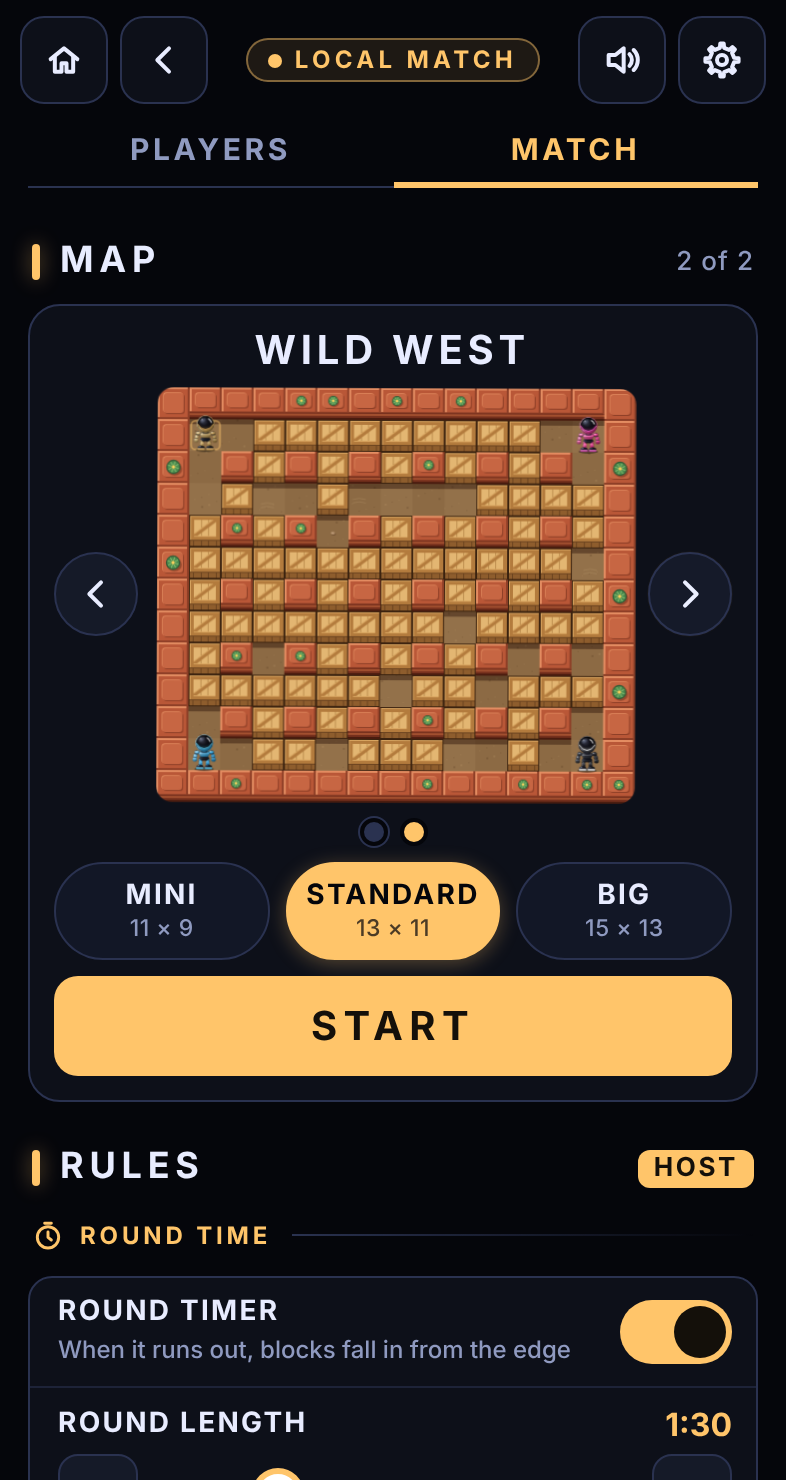
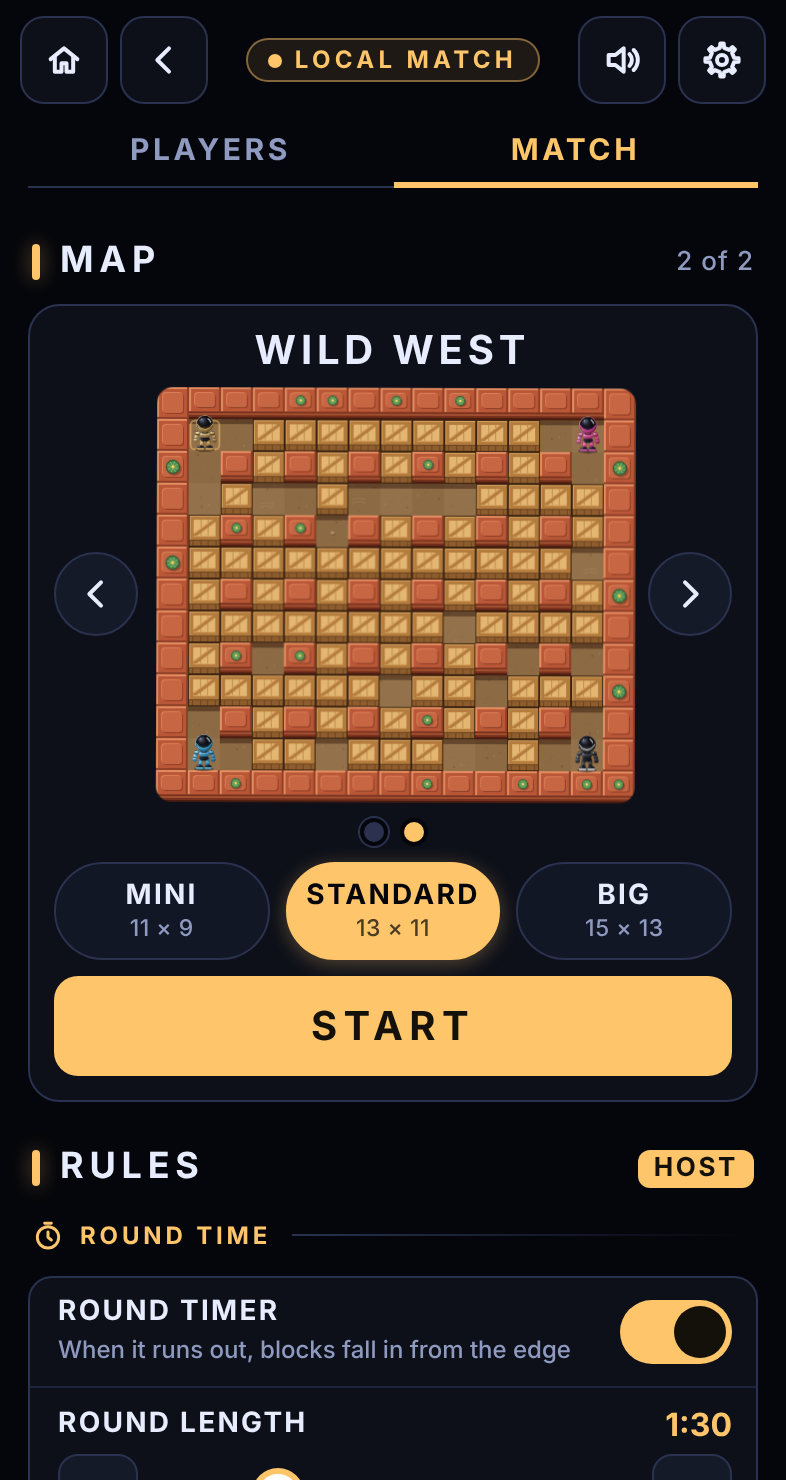
The falling blocks always leave a clean rectangle: 9 by 7 on Standard
The owner's ask, 20 November 2026. The area left open in the middle is now
always a rectangle whose edges run along open rows and columns, never through
pillars (keptSize in sim.ts). On Standard (13 by 11) the 7 by 5 had pillars on
its edges; it is now 9 by 7, 51 tiles to stand on, and only two rings fall.
Mini and Big keep their 7 by 5, already clean; arenas grown for seven or eight
players get whichever of the two is clean. The Closing in hint says the size
for the arena pictured. Online version 7.

CPU runs redone: blasted itself stays at zero. The bigger square leaves many
more CPU-only rounds still going 2 minutes after the blocks stop (four
Beginners 54 of 60, four Hards 21); written down in docs/CPU-PLAYERS.md.

Claude-Session: https://claude.ai/code/session_011ftAyX6mTgujq1JC9DxE3X

diff --git a/tests/rules.test.ts b/tests/rules.test.ts
@@ -31,6 +31,7 @@ import {
   KEEP_OPEN_W,
   KEEP_OPEN_H,
   keptOpen,
+  keptSize,
   TICK_HZ,
   ITEM_CHANCE,
   ITEM_SHARE,
@@ -943,17 +944,19 @@ for (let seed = 1; seed <= 40; seed++) {
     assert.deepEqual(xy[13], [13, 2], 'turns down the right side');
     assert.deepEqual(xy[43], [1, 2], 'the first ring ends just under where it began');
     assert.deepEqual(xy[44], [3, 2], 'the second ring starts one in, past the pillar at 2,2');
-    // three whole rings (44, 18 and 28 blocks), and that is all: they leave the 7 by 5 that stays open (the
-    // owner's ask, 18 November 2026; four more blocks used to close its sides to a 5 by 5)
-    assert.equal(xy.length, 90);
-    assert.deepEqual(xy[89], [3, 4], 'the last block closes the third ring, just outside the 7 by 5');
+    // two whole rings (44 and 18 blocks), and that is all: on Standard they leave the 9 by 7 that stays open,
+    // a clean rectangle (the owner's ask, 20 November 2026; a third ring of 28 used to close it to a 7 by 5
+    // with pillars at its corners, and before that four more blocks to a 5 by 5)
+    assert.equal(xy.length, 62);
+    assert.deepEqual(xy[61], [2, 3], 'the last block closes the second ring, just outside the 9 by 7');
     assert.equal(new Set(w.shrinkOrder).size, w.shrinkOrder.length, 'each once');
-    // the area left open: 7 by 5 in the middle, columns 4 to 10 and rows 4 to 8
+    // the area left open: 9 by 7 in the middle, columns 3 to 11 and rows 3 to 9, its edges open rows and columns
     assert.equal(KEEP_OPEN_W, 7);
     assert.equal(KEEP_OPEN_H, 5);
+    assert.deepEqual(keptSize(w.w, w.h), [9, 7]);
     for (let y = 1; y < w.h - 1; y++) {
       for (let x = 1; x < w.w - 1; x++) {
-        const inside = x >= 4 && x <= 10 && y >= 4 && y <= 8;
+        const inside = x >= 3 && x <= 11 && y >= 3 && y <= 9;
         assert.equal(keptOpen(w.w, w.h, y * w.w + x), inside);
         if (inside) assert.ok(!w.shrinkOrder.includes(y * w.w + x), `no block ever falls on ${x},${y}`);
       }
@@ -969,7 +972,7 @@ for (let seed = 1; seed <= 40; seed++) {
     assert.equal(blockLandTick(w, n - 1), ROUND_TICKS + SHRINK_TICKS, 'the last block lands 50 seconds after 0:00');
     for (let k = 1; k < n; k++) {
       const gap = blockLandTick(w, k) - blockLandTick(w, k - 1);
-      const even = (SHRINK_TICKS - FALL_TICKS) / (n - 1); // (33.3 ticks with the 90 blocks of a 7 by 5; 31.6 with 94 for a 5 by 5)
+      const even = (SHRINK_TICKS - FALL_TICKS) / (n - 1); // (48.6 ticks with the 62 blocks round a 9 by 7; 33.3 with 90 for a 7 by 5)
       assert.ok(gap === Math.floor(even) || gap === Math.ceil(even), `block ${k} lands about half a second after the one before`);
     }
     w.players.forEach((p) => { p.x = 7; p.y = 5; }); // out of the way for now
@@ -988,7 +991,7 @@ for (let seed = 1; seed <= 40; seed++) {
     assert.ok(w.events.some((e) => e.type === 'block' && e.cx === 1 && e.cy === 1), 'and says so');
     assert.equal(hard(w), before + 1, 'one at a time');
   }
-  // 50 seconds after 0:00 everything is solid except the 7 by 5 in the middle, which is untouched; then the blocks stop
+  // 50 seconds after 0:00 everything is solid except the 9 by 7 in the middle, which is untouched; then the blocks stop
   {
     const w = timed(undefined, 0.78, 1);
     const p = w.players[0];
@@ -1002,7 +1005,7 @@ for (let seed = 1; seed <= 40; seed++) {
       else assert.equal(w.tiles[i], HARD, 'outside it everything is solid');
     }
     for (const [i, kind] of hiddenBefore) assert.equal(w.hidden.get(i), keptOpen(w.w, w.h, i) ? kind : undefined, 'power-ups under bricks in the square are still there');
-    assert.equal(w.tiles.filter((t, i) => keptOpen(w.w, w.h, i) && t !== HARD).length, 23, '23 tiles to fight in: 35 less 12 pillars');
+    assert.equal(w.tiles.filter((t, i) => keptOpen(w.w, w.h, i) && t !== HARD).length, 51, '51 tiles to fight in: 63 less 12 pillars');
     assert.equal(w.falling.length, 0);
     assert.equal(ticksLeft(w), 0);
     assert.ok(p.alive, 'a robot in the square is still in');
@@ -1053,8 +1056,9 @@ for (let seed = 1; seed <= 40; seed++) {
   // who wins when blocks decide it
   {
     // one player further along the falling order than the other: it outlasts the other and wins,
-    // even though a block gets it too before the result would have been declared
-    const w = timed();
+    // even though a block gets it too before the result would have been declared (Fast closing in, 32 s: at
+    // Normal the blocks round a 9 by 7 land 0.8 s apart, longer than the wait for a double knockout)
+    const w = createWorld({ seed: 7, players: [{ colorId: '0' }, { colorId: '1' }], softDensity: 0, shrinkTicks: 32 * TICK_HZ });
     const [a, b] = w.players;
     a.x = 1; a.y = 1; // first tile to go
     b.x = 2; b.y = 1; // second
@@ -1168,6 +1172,20 @@ for (let seed = 1; seed <= 40; seed++) {
     assert.deepEqual(big.players.map((p) => [p.x, p.y]), [[1, 1], [cols, rows], [cols, 1], [1, rows]]);
     assert.ok(big.shrinkOrder.length > 0);
     assert.ok(big.shrinkOrder.every((i) => !keptOpen(big.w, big.h, i)));
+  }
+  // every size, with four players and grown for eight, ends on a clean rectangle: its edges are open rows and
+  // columns, never pillars (the owner's ask, 20 November 2026); 7 by 5 or 9 by 7
+  for (const [cols, rows] of [[11, 9], [13, 11], [15, 13], [17, 15]]) {
+    const w = createWorld({ seed: 5, players: [{ colorId: 'a' }, { colorId: 'b' }], cols, rows });
+    const [kw, kh] = keptSize(w.w, w.h);
+    assert.ok((kw === 7 && kh === 5) || (kw === 9 && kh === 7), `${cols} by ${rows}: ${kw} by ${kh}`);
+    const x0 = (w.w - 1) / 2 - (kw - 1) / 2, y0 = (w.h - 1) / 2 - (kh - 1) / 2;
+    for (let k = 0; k < kw; k++) {
+      for (const y of [y0, y0 + kh - 1]) assert.notEqual(w.tiles[y * w.w + x0 + k], HARD, `${cols} by ${rows}: no pillar on its top or bottom edge`);
+    }
+    for (let k = 0; k < kh; k++) {
+      for (const x of [x0, x0 + kw - 1]) assert.notEqual(w.tiles[(y0 + k) * w.w + x], HARD, `${cols} by ${rows}: no pillar on its sides`);
+    }
   }
 }
 

diff --git a/src/sim.ts b/src/sim.ts
@@ -428,9 +428,11 @@ export const FALL_TICKS = 38; // a falling block is in the air, over its shadow,
 export const START_FIRE = 1; // a blast reaches one tile each way until a flame power-up is picked up (it was 2)
 export const MAX_FIRE = 8;
 /**
- * The falling blocks leave an area this many tiles across and this many down open in the middle of the arena,
- * for whoever is left to fight it out in: 7 by 5 (the owner's ask, 18 November 2026; it was a 5 by 5 square,
- * which the last four blocks used to make out of the 7 by 5 that the rings leave on the Standard arena).
+ * The falling blocks leave a rectangle open in the middle of the arena, for whoever is left to fight it out in:
+ * at least this many tiles across and down (7 by 5: the owner's ask, 18 November 2026; it was a 5 by 5 square).
+ * Its edges always run along an open row or column, never through the pillars, so what is left is a clean
+ * rectangle with the pillars inside it (the owner's ask, 20 November 2026): 7 by 5 where that already holds
+ * (Mini, Big), 9 by 7 where it does not (Standard, and Big grown for seven or eight players). See `keptSize`.
  */
 export const KEEP_OPEN_W = 7;
 export const KEEP_OPEN_H = 5;
@@ -728,11 +730,24 @@ function spiral(w: number, h: number): number[] {
   return out;
 }
 
-/** Is this tile in the area in the middle of the arena that the falling blocks leave open (7 by 5)? */
+/**
+ * How many tiles across and down the falling blocks leave open in the middle of an arena `w` by `h` (outer wall
+ * included): the smallest at least KEEP_OPEN_W by KEEP_OPEN_H whose edges are open rows and columns (odd ones;
+ * the pillars stand on even ones), so the end is always a clean rectangle. Arenas are always two wider than high,
+ * so it is 7 by 5 or 9 by 7.
+ */
+export function keptSize(w: number, h: number): [number, number] {
+  const cx = (w - 1) / 2;
+  const cy = (h - 1) / 2;
+  return [cx % 2 === 0 ? KEEP_OPEN_W : KEEP_OPEN_W + 2, cy % 2 === 1 ? KEEP_OPEN_H : KEEP_OPEN_H + 2];
+}
+
+/** Is this tile in the rectangle in the middle of the arena that the falling blocks leave open (`keptSize`)? */
 export function keptOpen(w: number, h: number, i: number): boolean {
   const x = i % w;
   const y = Math.floor(i / w);
-  return Math.abs(x - (w - 1) / 2) <= (KEEP_OPEN_W - 1) / 2 && Math.abs(y - (h - 1) / 2) <= (KEEP_OPEN_H - 1) / 2;
+  const [kw, kh] = keptSize(w, h);
+  return Math.abs(x - (w - 1) / 2) <= (kw - 1) / 2 && Math.abs(y - (h - 1) / 2) <= (kh - 1) / 2;
 }
 
 /**

diff --git a/tests/bot.test.ts b/tests/bot.test.ts
@@ -238,9 +238,10 @@ for (const level of ['normal', 'hard'] as BotLevel[]) {
   const w = createWorld({ seed: 7, players: [{ colorId: 'gold' }, { colorId: 'blue' }], softDensity: 0 });
   const at = (x: number, y: number): number => y * w.w + x;
   assert.equal(blockLandsIn(w, at(1, 1)), blockLandTick(w, 0), 'the first block is due on the top-left corner');
-  assert.equal(blockLandsIn(w, at(3, 4)), ROUND_TICKS + SHRINK_TICKS, 'the last just outside the 7 by 5 that stays open, 50 seconds after the timer reaches 0');
-  assert.equal(blockLandsIn(w, at(7, 6)), Infinity, 'none in the 7 by 5');
-  assert.equal(blockLandsIn(w, at(4, 5)), Infinity, 'its side columns included (they used to close it to 5 by 5)');
+  assert.equal(blockLandsIn(w, at(2, 3)), ROUND_TICKS + SHRINK_TICKS, 'the last just outside the 9 by 7 that stays open on Standard, 50 seconds after the timer reaches 0');
+  assert.equal(blockLandsIn(w, at(7, 6)), Infinity, 'none in the 9 by 7');
+  assert.equal(blockLandsIn(w, at(3, 3)), Infinity, 'its corners included (the third ring used to close it to a 7 by 5)');
+  assert.equal(blockLandsIn(w, at(4, 5)), Infinity);
   assert.equal(blockLandsIn(w, at(5, 4)), Infinity);
   assert.equal(blockLandsIn(w, at(2, 2)), Infinity, 'none on a pillar');
   // at the start nothing is in sight; just before the timer reaches 0 the first tiles are, for a level that looks ahead
@@ -268,7 +269,7 @@ for (const level of BOT_LEVELS) {
     // (Beginner only steps aside from the block that is falling, and looks under a second ahead when it
     // picks where to stand clear of its own bomb, so it can back into a pocket the ring then closes: that is
     // part of being easy. With a 2-minute timer that happened in this open arena; with the 7 by 5 kept open
-    // (18 November 2026) it happens among the bricks: it runs from its own bomb onto the third ring as it
+    // (18 November 2026) it happened among the bricks: it runs from its own bomb onto the third ring as it
     // closes. So Beginner may be caught by a block here, but never by its own blast. How often: the `alone`
     // run of experiments/cpu-matches.ts.)
     if (level === 'beginner' && !p.alive) {

diff --git a/src/net.ts b/src/net.ts
@@ -22,7 +22,7 @@ import type { BotLevel } from './bot';
  * The version of these messages. A page says it in `hello`; the server turns away a page with another (one
  * left open from before an update), telling it to reload. Raise it whenever a message changes its meaning.
  */
-export const PROTOCOL = 6; // 3: the laptop's plane (steering in the inputs, planes and falling bombs in the world); 4: the plane slower, turning less, flying longer; 5: Power-ups (itemShare in the setup), and a custom mix is only which kinds; 6: Brick density (brickShare) and a switch for each kind (itemOn)
+export const PROTOCOL = 7; // 3: the laptop's plane (steering in the inputs, planes and falling bombs in the world); 4: the plane slower, turning less, flying longer; 5: Power-ups (itemShare in the setup), and a custom mix is only which kinds; 6: Brick density (brickShare) and a switch for each kind (itemOn); 7: the area the falling blocks leave is a clean rectangle on every size (9 by 7 on Standard)
 
 /** Room codes: four letters, without the ones easily mixed up (I, O) or that spell words easily (vowels). */
 export const CODE_LETTERS = 'BCDFGHJKLMNPQRSTVWXZ';

diff --git a/src/lobby.ts b/src/lobby.ts
@@ -22,7 +22,7 @@
  */
 import { BOT_LEVELS, LEVELS } from './bot';
 import { COLORS, botName, colorById, drawItemTile, drawRobot, drawStatic, drawDynamic, setMap, ROBOT } from './render';
-import { type World, createWorld, MAX_BOMBS, MAX_FIRE, MAX_LIVES, MAX_SPEED_ITEMS, START_FIRE } from './sim';
+import { type World, createWorld, keptSize, MAX_BOMBS, MAX_FIRE, MAX_LIVES, MAX_SPEED_ITEMS, START_FIRE } from './sim';
 import {
   CpuSlot,
   Guest,
@@ -1498,7 +1498,11 @@ export function createLobby(host: LobbyHost): {
           }),
           slider({
             label: 'Closing in',
-            hint: () => `The blocks take ${CLOSE_IN[s().closeIn].secs} seconds to fall. A 7 by 5 area in the middle stays open.`,
+            hint: () => {
+              const pw = previewWorld();
+              const [kw, kh] = keptSize(pw.w, pw.h); // (9 by 7 on Standard, 7 by 5 on Mini and Big)
+              return `The blocks take ${CLOSE_IN[s().closeIn].secs} seconds to fall. A ${kw} by ${kh} area in the middle stays open.`;
+            },
             min: 0,
             max: CLOSE_IN.length - 1,
             normal: () => usual().closeIn,

diff --git a/CLAUDE.md b/CLAUDE.md
@@ -67,8 +67,8 @@ Do not undo these unless asked. The reasons are in `docs/ROADMAP.md` and `docs/C
 - Your colour is yours for the whole match. A round's players, colours and CPU levels are set in `newWorld` in `main.ts`, from the lobby's setup, and nowhere else. Colours can only be changed in the lobby, between matches, and always stay different. You pick a colour (arrows, a dot, a swipe; it shows on your robot) and press **Ready** (it was OK; renamed by the owner) to take it, which pops up a P1 tag under its dot (P2 to P8 sit under the CPU players' colours) and puts a ✓ Ready check on your player card. CPU players' cards always show ✓ Ready. Picking another colour takes Ready away until it is pressed again. Ready resets on each fresh visit to the lobby (from the title or a match), not on coming back from Settings. You can take a CPU player's colour: that CPU player gets the one you had. A CPU player can only be given a free colour on its own panel. Online, each player will press Ready on their own colour and can change and press it again until the start (the owner's plan). Menus to come that choose a colour must follow the same rule.
 - Each head on the scoreboard has its player's name under it (the owner's ask, November 2026): a typed name or the robot's, yours in your colour, cut short with … to fit. Upright with four players the names sit in the free line under the top bar; upright with more, heads and names share that line; sideways each row is 58 px. Lives dots sit under the number of wins, not the head.
 - The menu button (`#menuBtn`) is three bars, not the word Menu, so the scoreboard fits beside the timer.
-- The timer counts down 1 minute 30 unless the lobby sets another length (`ROUND_TICKS`; it was 2 minutes at first; `roundTicks` in `createWorld`, 0 = no timer, which is what most tests use). When it reaches 0:00 the blocks start to fall, and take 50 seconds (`SHRINK_TICKS`). They fall one at a time in `world.shrinkOrder`: round the edge clockwise from the top-left corner, then ring after ring inward until only the 7 by 5 in the middle is left (on Standard, two more rings; the two columns beside the middle used to fall last, when it was a 5 by 5). (At first they fell during the last minute of the timer; changed in play-testing.) Each is in the air 0.63 s (`FALL_TICKS` 38) over a marked tile (the blocks were made 20% faster in play-testing: a minute and 0.75 s at first; keep the two in step), then turns it solid for good, knocks out a robot under it (a shield does not help), and removes a bomb, power-up, brick or blast there (`fallBlocks` in `sim.ts`).
-- A 7 by 5 area in the middle (7 across, 5 down) is never touched (`KEEP_OPEN_W`, `KEEP_OPEN_H`, `keptOpen`; the owner's ask, 18 November 2026: it was a 5 by 5 square, `KEEP_OPEN`). On Standard that is exactly what three rings leave, so the last block closes the third ring; on Mini and Big its edges fall between the pillars (29 tiles to stand on, against 23 on Standard). The CPU players' "square" (`squareBold`, `inSquare`) is this area. When the blocks stop the round goes on there until someone wins; it has no time limit. The first version closed the whole arena and half the rounds were draws on the last tile: do not go back to that.
+- The timer counts down 1 minute 30 unless the lobby sets another length (`ROUND_TICKS`; it was 2 minutes at first; `roundTicks` in `createWorld`, 0 = no timer, which is what most tests use). When it reaches 0:00 the blocks start to fall, and take 50 seconds (`SHRINK_TICKS`). They fall one at a time in `world.shrinkOrder`: round the edge clockwise from the top-left corner, then ring after ring inward until only the rectangle in the middle is left (below; on Standard, one more ring after the edge). (At first they fell during the last minute of the timer; changed in play-testing.) Each is in the air 0.63 s (`FALL_TICKS` 38) over a marked tile (the blocks were made 20% faster in play-testing: a minute and 0.75 s at first; keep the two in step), then turns it solid for good, knocks out a robot under it (a shield does not help), and removes a bomb, power-up, brick or blast there (`fallBlocks` in `sim.ts`).
+- A clean rectangle in the middle is never touched (`KEEP_OPEN_W`, `KEEP_OPEN_H`, `keptSize`, `keptOpen`): at least 7 across by 5 down, its edges always open rows and columns, never pillars (the owner's ask, 20 November 2026: on Standard the 7 by 5 had pillars on its edges and did not end as a rectangle), so 9 by 7 on Standard (51 tiles to stand on; two rings fall, 62 blocks), 7 by 5 on Mini and Big (29 tiles); grown for seven or eight players, 7 by 5 on Mini and Standard, 9 by 7 on Big. It was a 5 by 5 square (`KEEP_OPEN`) until 18 November 2026, then 7 by 5 everywhere. The Closing in hint says the size for the arena pictured. The CPU players' "square" (`squareBold`, `inSquare`) is this area. When the blocks stop the round goes on there until someone wins; it has no time limit. The first version closed the whole arena and half the rounds were draws on the last tile: do not go back to that. Online `PROTOCOL` 7.
 - The last robot standing wins even if a block gets it a moment later; robots under the same block draw.
 - A blast starts 1 tile long each way (`START_FIRE`); each flame power-up adds a tile, up to 8. It started at 2.
 - The timer is centred in the top bar (`#timer`, `drawTimer` in `main.ts`): white, amber for the last 30 seconds, red for the last ten and after. Sideways it sits over the side column. The strip of collected power-ups was removed: do not bring it back unless asked. The pad caption is centred.
@@ -85,7 +85,7 @@ Do not undo these unless asked. The reasons are in `docs/ROADMAP.md` and `docs/C
 - Swipe directions are read around four aims that all lean the same few degrees, set by **Movement sensitivity** in Settings › Controls (the owner's design, November 2026): a slider from **0% to 25%** in steps of 1%, its value in small type over its circle (the owner's ask, 18 November 2026: more options, as a percentage; it was Low 2°, Medium 5°, High 8°), each percent leaning the aims 0.45° (`SENS_MAX`, `SENS_DEG`, `sensTilt`, `DEFAULT_SENS` 11% = 4.95° in swipe.ts; saved as `controls5`), clockwise for a left thumb and mirrored for a right. A saved Low, Medium or High becomes 4%, 11% or 18% (`OLD_SENS`, from `controls4`), which lean almost exactly as they did. It replaced the single standard lean (15° at first, `FIRST_TILT`, kept for the tests built on it; then 2°, the owner's own measured thumb; 8°; 5°, all that afternoon) and the Standard / My thumb switch with Match my thumb, which were taken out at his word. A Match my thumb result saved before becomes the nearest percentage (`controls3` is read once; his 2° reads as 4%). `docs/SWIPE-HISTORY.md` keeps every version of the swipe controls and why: add to it whenever they change.
 - Match my thumb (taken out of the game in November 2026) is kept on purpose: `docs/MATCH-MY-THUMB.md`, `docs/MATCH-MY-THUMB-V1.md` and the branches `match-my-thumb-v1` and `match-my-thumb-v2`, with `src/teach.ts` in git history. Never delete them. (Tags cannot be pushed from Claude's sessions, which is why these are branches.)
 - Robots start at 2.55 tiles a second (`BASE_SPEED` 0.04250390625: the original speed halved, then tuned +25%, +12.5%, −2.5%). Each speed power-up adds 0.5 tiles a second (`SPEED_STEP`, 0.5 / 60 a tick; it was 0.37, then 0.45), up to six, which is 5.55 tiles a second. Collecting a speed power-up is the only thing that raises a robot's speed. Kicked bombs slide at 0.14 tiles a tick, 30% slower than the original 0.2.
-- 60% of bricks hide a power-up by default: the Match page's **Power-up density** slider (the owner's ask, 19 November 2026: how many power-ups a map has; his name for it, the same day: it was Power-ups for an hour), 0% (None: nothing at all, not even the boot, glove and laptop made sure of) to 100% in steps of 5% (`itemShare` in setup.ts, `ITEM_SHARE` 0.6 in sim.ts), between Bricks and Custom power-ups in the Arena group, with a line under it counting the power-ups in the arena pictured; the menu's facts and the lobby summary say "Power-up density 30%" or "No power-ups" when it is not 60%. Which kind each is comes from its weight (`ITEM_WEIGHT`: bomb 60, flame 60, speed 44, boot 10, glove 10, shield 4, curse 4, laptop 4), so `ITEM_CHANCE` (`itemMix` of the two) is bomb 18.4%, flame 18.4%, speed 13.5%, boot 3.1%, glove 3.1%, shield 1.2%, curse 1.2%, laptop 1.2% (every chance raised by a quarter at the owner's ask, November 2026, on every map: it was 48%; the laptop added 18 November 2026, sharing the 60% since the slider came). An arena averages 14.8 bombs, 14.8 flames, 10.9 speeds, 2.6 boots, 2.6 gloves, 1.0 shields, 1.0 curses, 1.4 laptops; every arena has a boot, a glove and a laptop; a shield or a curse is in about 63% of arenas. Custom power-ups is now only the mix: a switch for each kind but the extra bomb and the flame (`itemOn`; the owner's ask, 19 November 2026; off, "Never turns up"; the bomb and flame switches were taken out the same day at his word, `ALWAYS_ON`: those two have only How often) with **How often** under it, Rare ½, Normal 1 or Lots 2 times its weight. Each power-up is one block (the owner's ask, the same day: it was not clear which switch and slider went with which): its picture (`drawItemTile`), name and line, its switch or, for the extra bomb and the flame, an **Always on** tag in the switch's place (`icon`, `always`, `cls` on `toggle` in ui.ts; `.pu` in page.html), How often set in under the name, in small type, and a line only between one power-up and the next; switched off, its picture greys and it says Never turns up (a kind saved at the old Off step reads as switched off): the total stays what Power-up density says, a kind switched off leaving its share to the others (`itemChances`). **Brick density** (the owner's ask and name, the same day; it was Bricks, Few to Packed, `BRICKS`, kept to read old setups: a saved step becomes its percentage) is how much of the arena's open floor starts as bricks, 0% (None) to 100% in steps of 5% (the owner's ask, the same day: it was steps of 1%, 78% the usual), 80% the usual (`brickShare`, `BRICK_SHARE_STEP`, `BRICK_SHARE_DEFAULT` from `SOFT_DENSITY` in sim.ts; a saved percentage goes to the nearest step; the corners the robots start in stay clear); the summary says "Brick density 40%" when it is not 80%. Online `PROTOCOL` 6. After changing a chance, run `npx tsx experiments/item-rarity.ts` and update the rarity table in `docs/GAME-RULES.md`. Add new kinds at the end of the list.
+- 60% of bricks hide a power-up by default: the Match page's **Power-up density** slider (the owner's ask, 19 November 2026: how many power-ups a map has; his name for it, the same day: it was Power-ups for an hour), 0% (None: nothing at all, not even the boot, glove and laptop made sure of) to 100% in steps of 5% (`itemShare` in setup.ts, `ITEM_SHARE` 0.6 in sim.ts), between Bricks and Custom power-ups in the Arena group, with a line under it counting the power-ups in the arena pictured; the menu's facts and the lobby summary say "Power-up density 30%" or "No power-ups" when it is not 60%. Which kind each is comes from its weight (`ITEM_WEIGHT`: bomb 60, flame 60, speed 44, boot 10, glove 10, shield 4, curse 4, laptop 4), so `ITEM_CHANCE` (`itemMix` of the two) is bomb 18.4%, flame 18.4%, speed 13.5%, boot 3.1%, glove 3.1%, shield 1.2%, curse 1.2%, laptop 1.2% (every chance raised by a quarter at the owner's ask, November 2026, on every map: it was 48%; the laptop added 18 November 2026, sharing the 60% since the slider came). An arena averages 14.8 bombs, 14.8 flames, 10.9 speeds, 2.6 boots, 2.6 gloves, 1.0 shields, 1.0 curses, 1.4 laptops; every arena has a boot, a glove and a laptop; a shield or a curse is in about 63% of arenas. Custom power-ups is now only the mix: a switch for each kind but the extra bomb and the flame (`itemOn`; the owner's ask, 19 November 2026; off, "Never turns up"; the bomb and flame switches were taken out the same day at his word, `ALWAYS_ON`: those two have only How often) with **How often** under it, Rare ½, Normal 1 or Lots 2 times its weight. Each power-up is one block (the owner's ask, the same day: it was not clear which switch and slider went with which): its picture (`drawItemTile`), name and line, its switch or, for the extra bomb and the flame, an **Always on** tag in the switch's place (`icon`, `always`, `cls` on `toggle` in ui.ts; `.pu` in page.html), How often set in under the name, in small type, and a line only between one power-up and the next; switched off, its picture greys and it says Never turns up (a kind saved at the old Off step reads as switched off): the total stays what Power-up density says, a kind switched off leaving its share to the others (`itemChances`). **Brick density** (the owner's ask and name, the same day; it was Bricks, Few to Packed, `BRICKS`, kept to read old setups: a saved step becomes its percentage) is how much of the arena's open floor starts as bricks, 0% (None) to 100% in steps of 5% (the owner's ask, the same day: it was steps of 1%, 78% the usual), 80% the usual (`brickShare`, `BRICK_SHARE_STEP`, `BRICK_SHARE_DEFAULT` from `SOFT_DENSITY` in sim.ts; a saved percentage goes to the nearest step; the corners the robots start in stay clear); the summary says "Brick density 40%" when it is not 80%. Online `PROTOCOL` 7 (6 for Brick density; 7 since the rectangle). After changing a chance, run `npx tsx experiments/item-rarity.ts` and update the rarity table in `docs/GAME-RULES.md`. Add new kinds at the end of the list.
 - Shield (very rare): the next blast does not knock the robot out; 30 seconds (`SHIELD_TICKS`) then it wears off; half a second of safety after it is used (`SHIELD_GRACE_TICKS`), so it covers one bomb, not a chain. Does not stack.
 - Curse (very rare): 8 seconds (`CURSE_TICKS`) at 85% of the starting speed (`CURSE_SPEED`), ignoring speed power-ups. It is the only thing besides a speed power-up that changes a robot's speed, and it gives the speed back.
 - Shield and curse are drawn on the robot (`drawStatus` in `render.ts`), not in the top bar.

diff --git a/docs/CPU-PLAYERS.md b/docs/CPU-PLAYERS.md
@@ -76,7 +76,7 @@ When the timer reaches 0:00 blocks fall round the edge and inward for 50 seconds
 - **A block about to land sends it running**, as a blast does (within about a second and a half).
 - **A block further off is a reason to move on, not to run.** It heads for the nearest tile that will last longer, but it can still stop to bomb a player on the way. That keeps them fighting while the arena closes.
 - **A blast comes before a block.** Getting clear of a bomb, a tile only has to outlast the blast, even if a block is due on it a few seconds later.
-- **The 7 by 5 in the middle is never covered** (it was a 5 by 5 square until 18 November 2026; "the square" below means this area), so there is always somewhere that counts as safe, and they end up in it.
+- **The rectangle in the middle is never covered** (`keptSize`: 9 by 7 on Standard, 7 by 5 on Mini and Big since 20 November 2026; a 7 by 5 everywhere from 18 November, a 5 by 5 square before; "the square" below means this area), so there is always somewhere that counts as safe, and they end up in it.
 - Hard will step out to bomb a spot that shuts other players into a dead end of the closing arena, if it can still get clear itself.
 
 Beginner has one weakness left in on purpose. Because it only steps aside from the block that is falling, it can back itself into a corner that the ring then closes.
@@ -175,34 +175,37 @@ A round has no end of its own: the timer runs 1 minute 30, the blocks take 50 se
 
 | Level | Blasted itself | Shut in by a rival | Caught in a rival's blast | Under a block, early | Under a block, in the last 15 s of them | Won | Rounds drawn | Not decided | Decided after |
 |---|---|---|---|---|---|---|---|---|---|
-| Beginner | 0.0% | 0.4% | 64.6% | 2.5% | 3.8% | 20.8% | 0 of 60 | 10 of 60 | 168 s |
-| Normal | 0.0% | 18.3% | 46.7% | 0.8% | 10.4% | 23.8% | 3 of 60 | 0 of 60 | 145 s |
-| Hard | 0.0% | 27.5% | 45.8% | 0.0% | 1.7% | 21.7% | 4 of 60 | 4 of 60 | 168 s |
+| Beginner | 0.0% | 0.8% | 40.0% | 2.5% | 0.4% | 2.5% | 0 of 60 | 54 of 60 | 114 s |
+| Normal | 0.0% | 31.7% | 41.7% | 0.4% | 2.5% | 22.9% | 4 of 60 | 1 of 60 | 159 s |
+| Hard | 0.0% | 32.1% | 34.6% | 0.4% | 0.0% | 15.8% | 1 of 60 | 21 of 60 | 183 s |
 
 - "Shut in by a rival" and "blasted itself" are both a bot caught by its own blast. The script calls it "shut in by a rival" when, within six steps of where the bot stood, there was a tile its own bombs would not have reached that was blocked or about to be blasted by a bomb a rival dropped *after* the bomb that caught it. It looks at the arena as it was when that bomb was dropped, so a tile a block has landed on since still counts as a way out it had. A rival's bomb dropped on the very same tick counts too, and so does one a rival threw or kicked that came to rest on the way out afterwards, a rival's bomb let go from a plane (from the moment it was let go), and a rival's bomb a falling block took away after the bot dropped its own. It is also "shut in by a rival" when the bot's own bomb went off early because a rival's bomb (one from a plane too) set it off, and that rival's bomb was dropped, kicked, thrown or let go after the bot dropped its own, including when the bot's shield took a first blast and its own bomb's blast caught it half a second later. Anything else is "blasted itself".
 - With the laptop in every arena (18 November 2026) the columns moved little: the CPU players fly it now and then, and a plane's bombs add to what catches them. The slower plane with 16 s flights (19 November 2026) moved them little again, and so did power-ups at 60% of bricks rather than 61.25% (the same day), and bricks on 80% of the open floor rather than 78% (the same day: the table above; the arenas differ each time).
 - Before Normal and Hard pressed in the square, Normal left 32 of 60 rounds not decided and Hard 9. Now it is none and 2. The price shows in "shut in by a rival": Normal went from 3.8% to about 20%, Hard from 27.5% to about 34%. That is the risk they now take on purpose. Beginner does not press, and its 20 of 60 is the old figure give or take (it was 15).
 - "Decided after" is the average length of the rounds that were decided. The blocks stop at 140 s, so most are settled in the square.
 - With the shorter timer and faster blocks, rounds are settled about 35 seconds sooner than before, and the other columns moved little. One thing did move: four Hards drew 9 rounds of 60 (it was 2). Why was not looked into; with the 7 by 5 it is back to 2.
+- With the 9 by 7 on Standard (20 November 2026, the table above): far more rounds still going 2 minutes after the blocks stop, Beginner 54 of 60 (10 before), Hard 21 (4), Normal still 1. The square has 51 tiles to stand on rather than 23, so careful players have room to keep out of each other's way; Beginner does not press in the square at all. Watch for rounds dragging on in play; the CPU players' pressing in the square (`squareBold`) is what would be tuned, if it shows with people too.
 - With the 7 by 5 and the 2.55 s fuse (18 November 2026): about where it was. Four Beginners left 12 of 60 not decided with the 7 by 5 alone and 17 with the longer fuse too (20 before either): noise, mostly. Four Hards draw 2 of 60 again.
 
 **One of each level in the same round** (three players, 180 rounds, each level in each of three corners equally often):
 
 | Level | Won | Blasted | Under a block, early | Blasted itself | Rivals it blasted |
 |---|---|---|---|---|---|
-| Beginner | 2.2% | 85.0% | 2.8% | 0.0% | 7 |
-| Normal | 23.9% | 65.6% | 1.7% | 0.0% | 51 |
-| Hard | 67.2% | 27.8% | 0.0% | 0.0% | 199 |
+| Beginner | 2.8% | 75.6% | 2.2% | 0.0% | 9 |
+| Normal | 27.8% | 56.1% | 0.6% | 0.0% | 53 |
+| Hard | 43.3% | 40.0% | 0.0% | 0.0% | 162 |
 
-6 of 180 drawn, 6 left undecided (19 November 2026, bricks at 80%; Normal won 35.6% and Hard 60.6% with bricks at 78% the same day, nothing in the CPU players changed between the two: a different set of arenas swings this table that much; with power-ups at 60%: 1 drawn, 3 undecided; with the slower plane just before: 3 and 4; with the first plane: 7 and 3; before the laptop: 4 and 5; with the 5 by 5 and the 2.5 s fuse: 5 drawn, 2 undecided) (it was 27 before they pressed in the square). The levels are well apart: each wins far more and blasts far more rivals than the one below.
+8 of 180 drawn, 39 left undecided (20 November 2026, the 9 by 7 on Standard: the bigger square leaves many more rounds going; with the 7 by 5 the same morning's arenas gave 6 drawn, 6 undecided; 19 November 2026, bricks at 80%: Normal won 35.6% and Hard 60.6% with bricks at 78% the same day, nothing in the CPU players changed between the two: a different set of arenas swings this table that much; with power-ups at 60%: 1 drawn, 3 undecided; with the slower plane just before: 3 and 4; with the first plane: 7 and 3; before the laptop: 4 and 5; with the 5 by 5 and the 2.5 s fuse: 5 drawn, 2 undecided) (it was 27 before they pressed in the square). The levels are well apart: each wins far more and blasts far more rivals than the one below.
 
 **Three of one level against a slow, careless player** (a Beginner CPU player standing in for a person, 80 rounds):
 
 | Three of | Blasted the player | Average time | A block got the player | The player won | Not decided | CPU players that blasted themselves |
 |---|---|---|---|---|---|---|
-| Beginner | 51 of 80 | 124 s | 6 of 80 | 15 of 80 | 14 of 80 | 0 |
-| Normal | 51 of 80 | 112 s | 27 of 80 | 2 of 80 | 0 of 80 | 0 |
-| Hard | 68 of 80 | 87 s | 11 of 80 | 1 of 80 | 7 of 80 | 0 (1 before the script saw thrown bombs in the air, replayed: a rival's doing, see below) |
+| Beginner | 26 of 80 | 95 s | 1 of 80 | 2 of 80 | 71 of 80 | 0 |
+| Normal | 62 of 80 | 117 s | 7 of 80 | 1 of 80 | 11 of 80 | 0 |
+| Hard | 66 of 80 | 82 s | 2 of 80 | 0 of 80 | 28 of 80 | 0 |
+
+(20 November 2026, the 9 by 7 on Standard. With the 7 by 5: Beginner 51 got the player, 14 not decided; Normal 51 and 0; Hard 68 and 7, and 1 under "blasted themselves" before the script saw thrown bombs in the air, replayed: a rival's doing, see below.)
 
 This table is noisy, and the stand-in is not a person. Read it loosely.
 
@@ -210,11 +213,11 @@ This table is noisy, and the stand-in is not a person. Read it loosely.
 
 | Level | Blasted itself | Caught by a block | In the square at the end |
 |---|---|---|---|
-| Beginner | 0 of 40 | 3 of 40 | 37 of 40 |
+| Beginner | 0 of 40 | 0 of 40 | 40 of 40 |
 | Normal | 0 of 40 | 0 of 40 | 40 of 40 |
 | Hard | 0 of 40 | 0 of 40 | 40 of 40 |
 
-(19 November 2026, bricks at 80%; with bricks at 78% and power-ups at 60%, Beginner 2; with the laptop the day before, Beginner 1; before the laptop: Beginner 4, Normal 1, Hard 1 caught. The arenas differ each time the chances move.) The Normal and Hard caught in the run before the laptop (with the 2.55 s fuse; 0 of 40 just before it) were replayed: each was standing still on a tile of the edge rings, shut in a pocket of bricks with no safe way to bomb out (the known gap, below), when a block landed on it. Over 120 arenas the old and new fuse give the same: Normal and Hard 1 of 120 each, Beginner 5 and 7 of 120. The 40 arenas here simply took in those cases this time.
+(20 November 2026, the 9 by 7 on Standard: no Beginner caught, as the third ring no longer falls; 19 November 2026, bricks at 80%: Beginner 3; with bricks at 78% and power-ups at 60%, Beginner 2; with the laptop the day before, Beginner 1; before the laptop: Beginner 4, Normal 1, Hard 1 caught. The arenas differ each time the chances move.) The Normal and Hard caught in the run before the laptop (with the 2.55 s fuse; 0 of 40 just before it) were replayed: each was standing still on a tile of the edge rings, shut in a pocket of bricks with no safe way to bomb out (the known gap, below), when a block landed on it. Over 120 arenas the old and new fuse give the same: Normal and Hard 1 of 120 each, Beginner 5 and 7 of 120. The 40 arenas here simply took in those cases this time.
 
 **Alone with a player who stands still, no timer** (40 arenas, 3 minutes each). This one is run without the timer, because otherwise the blocks would get the still player and it would look like a win:
 

diff --git a/docs/ROADMAP.md b/docs/ROADMAP.md
@@ -243,6 +243,7 @@ The rules were written with this in mind from the start: they use no browser fea
 - 19 November 2026 (the owner): every slider has a line across its bar where its usual setting is (the defaults; on the Match page, the defaults for the arena shown, so Round length's line moves with the arena).
 - 19 November 2026 (the owner): under Custom power-ups each power-up has its own on/off switch, with How often (Rare, Normal, Lots) under it while it is on (the slider's Off step went into the switch). Bricks became **Brick density**, a percentage of the arena's open floor, 0% to 100% (78%, the old Normal, by default).
 - 19 November 2026 (the owner): the extra bomb and the flame lost their switches under Custom power-ups (they have only How often, and are always in the mix: `ALWAYS_ON`; a setup saved with them off reads as on). Brick density goes in steps of 5%; the usual became 80%, the step nearest the old 78% (`SOFT_DENSITY` in sim.ts), which adds about two bricks and one power-up to an arena. A percentage saved between steps goes to the nearest one.
+- 20 November 2026 (the owner): the area the falling blocks leave is always a clean rectangle, on every size: its edges run along open rows and columns, never through pillars (`keptSize`). On Standard (13 by 11) the 7 by 5 had pillars on its edges, which is what he had seen online; it is now 9 by 7 there, with 51 tiles to stand on and one ring fewer to fall. Mini and Big keep their 7 by 5, already clean. Online version 7.
 - 19 November 2026 (the owner): online, the host's menu says **Leave to match settings** and **Leave to the lobby**, as on one screen (they were End match · match settings and End match, and both asked "Everyone back to the lobby?", which did not fit the first). Their questions now say what each does, and that the match ends for everyone in the room. He also reported that online rounds did not end in the 7 by 5; an online round played through the server's own room code, and in a browser against a local copy of the server, both left exactly the 7 by 5 (the server and the page run the same rules and must be the same version to play), so a screenshot of what he saw was asked for.
 - 19 November 2026 (the owner): the result panel's buttons (knocked out, round won, match won) are one above the other, and it and the menu during a match have a new way out, **Match settings** (in the menu **Leave to match settings**), which ends the match and opens the lobby on its Match page. Online it is the host's and ends the match for the room, as End match does. The panel shrinks its type where three buttons would not fit (`fitResult`).
 - 19 November 2026 (the owner): the laptop's plane is steered like a pilot by default: left and right turn it to its own left and right, whichever way it is flying; up, down or nothing fly straight on. Asked which kind of invert he meant (up/down flipped, every way flipped, or turning like a pilot), he chose the pilot. Settings › Controls › Steering › **Inverse plane controls** (on) switches it back to flying the way you point.

diff --git a/docs/GAME-RULES.md b/docs/GAME-RULES.md
@@ -181,7 +181,7 @@ How the blocks fall:
 
 - **One at a time**, about half a second apart. The first one starts to fall the moment the timer reaches 0:00.
 - **Where:** round the edge of the arena, starting at the top-left corner and going clockwise: along the top, down the right side, back along the bottom, up the left side. Then the same again one ring further in, and once more. Pillars are skipped: they are solid already.
-- **An area in the middle is left open.** It is 7 tiles across by 5 down (columns 4 to 10, rows 4 to 8 on the Standard arena). No block ever falls in it, and whatever is in it (bricks, power-ups) is untouched. It was a 5 by 5 square until the owner had it widened (18 November 2026): the last four blocks used to close the two columns either side of it.
+- **An area in the middle is left open.** It is always a clean rectangle: its edges run along open rows and columns, never through the pillars, which stand inside it (`keptSize`; the owner's ask, 20 November 2026). That makes it 9 tiles across by 7 down on Standard (columns 3 to 11, rows 3 to 9: 51 tiles to stand on), 7 by 5 on Mini and Big (29 tiles), and on an arena grown for seven or eight players 7 by 5 on Mini and Standard, 9 by 7 on Big. On Standard it was 7 by 5 from 18 to 20 November 2026, with pillars on its edges, so it did not end as a clean rectangle. No block ever falls in it, and whatever is in it (bricks, power-ups) is untouched. It was a 5 by 5 square until the owner had it widened (18 November 2026): the last four blocks used to close the two columns either side of it.
 - **Warning:** each block is in the air for a little under two thirds of a second (0.63 s) before it lands. Its tile is marked with a red outline and a shadow that darkens as it comes down.
 - **Landing:** the tile becomes a solid block for the rest of the round. A brick there, and anything under it, is gone. So is a power-up, a blast, or a bomb (it does not go off, and its owner gets it back).
 - **A robot under a landing block is knocked out.** A shield does not help: it stops a blast, not a block.
@@ -316,7 +316,7 @@ All of these are named constants near the top of `src/sim.ts`. Changing one chan
 | `MAX_BOMBS` | 8 | Most bombs out at once |
 | `START_FIRE` | 1 | How long a blast is, in tiles each way, before any flame power-up |
 | `MAX_FIRE` | 8 | Longest blast, in tiles |
-| `KEEP_OPEN_W`, `KEEP_OPEN_H` | 7, 5 | The falling blocks leave an area this many tiles across and down open in the middle (it was a 5 by 5 square, `KEEP_OPEN`) |
+| `KEEP_OPEN_W`, `KEEP_OPEN_H` | 7, 5 | The least the falling blocks leave open in the middle; `keptSize` makes it 9 by 7 where a 7 by 5 would have pillars on its edges (it was a 5 by 5 square, `KEEP_OPEN`) |
 | `FUSE_TICKS` | 153 | Fuse of a dropped bomb (2.55 s; it was 150, 2.5 s) |
 | `FLAME_TICKS` | 27 | How long a blast and a burning brick last (0.45 s) |
 | `CHAIN_TICKS` | 5 | Delay before a bomb caught in a blast goes off |

diff --git a/experiments/README.md b/experiments/README.md
@@ -141,9 +141,9 @@ Four of the same level:
 
 | Level | Blasted itself | Shut in by a rival | Caught in a rival's blast | Under a block, early | Under a block, in the last 15 s of them | Won | Rounds drawn | Not decided |
 |---|---|---|---|---|---|---|---|---|
-| Beginner | 0.0% | 0.4% | 64.6% | 2.5% | 3.8% | 20.8% | 0 of 60 | 10 of 60 |
-| Normal | 0.0% | 18.3% | 46.7% | 0.8% | 10.4% | 23.8% | 3 of 60 | 0 of 60 |
-| Hard | 0.0% | 27.5% | 45.8% | 0.0% | 1.7% | 21.7% | 4 of 60 | 4 of 60 |
+| Beginner | 0.0% | 0.8% | 40.0% | 2.5% | 0.4% | 2.5% | 0 of 60 | 54 of 60 |
+| Normal | 0.0% | 31.7% | 41.7% | 0.4% | 2.5% | 22.9% | 4 of 60 | 1 of 60 |
+| Hard | 0.0% | 32.1% | 34.6% | 0.4% | 0.0% | 15.8% | 1 of 60 | 21 of 60 |
 
 The other tables are in [docs/CPU-PLAYERS.md](../docs/CPU-PLAYERS.md).
 
